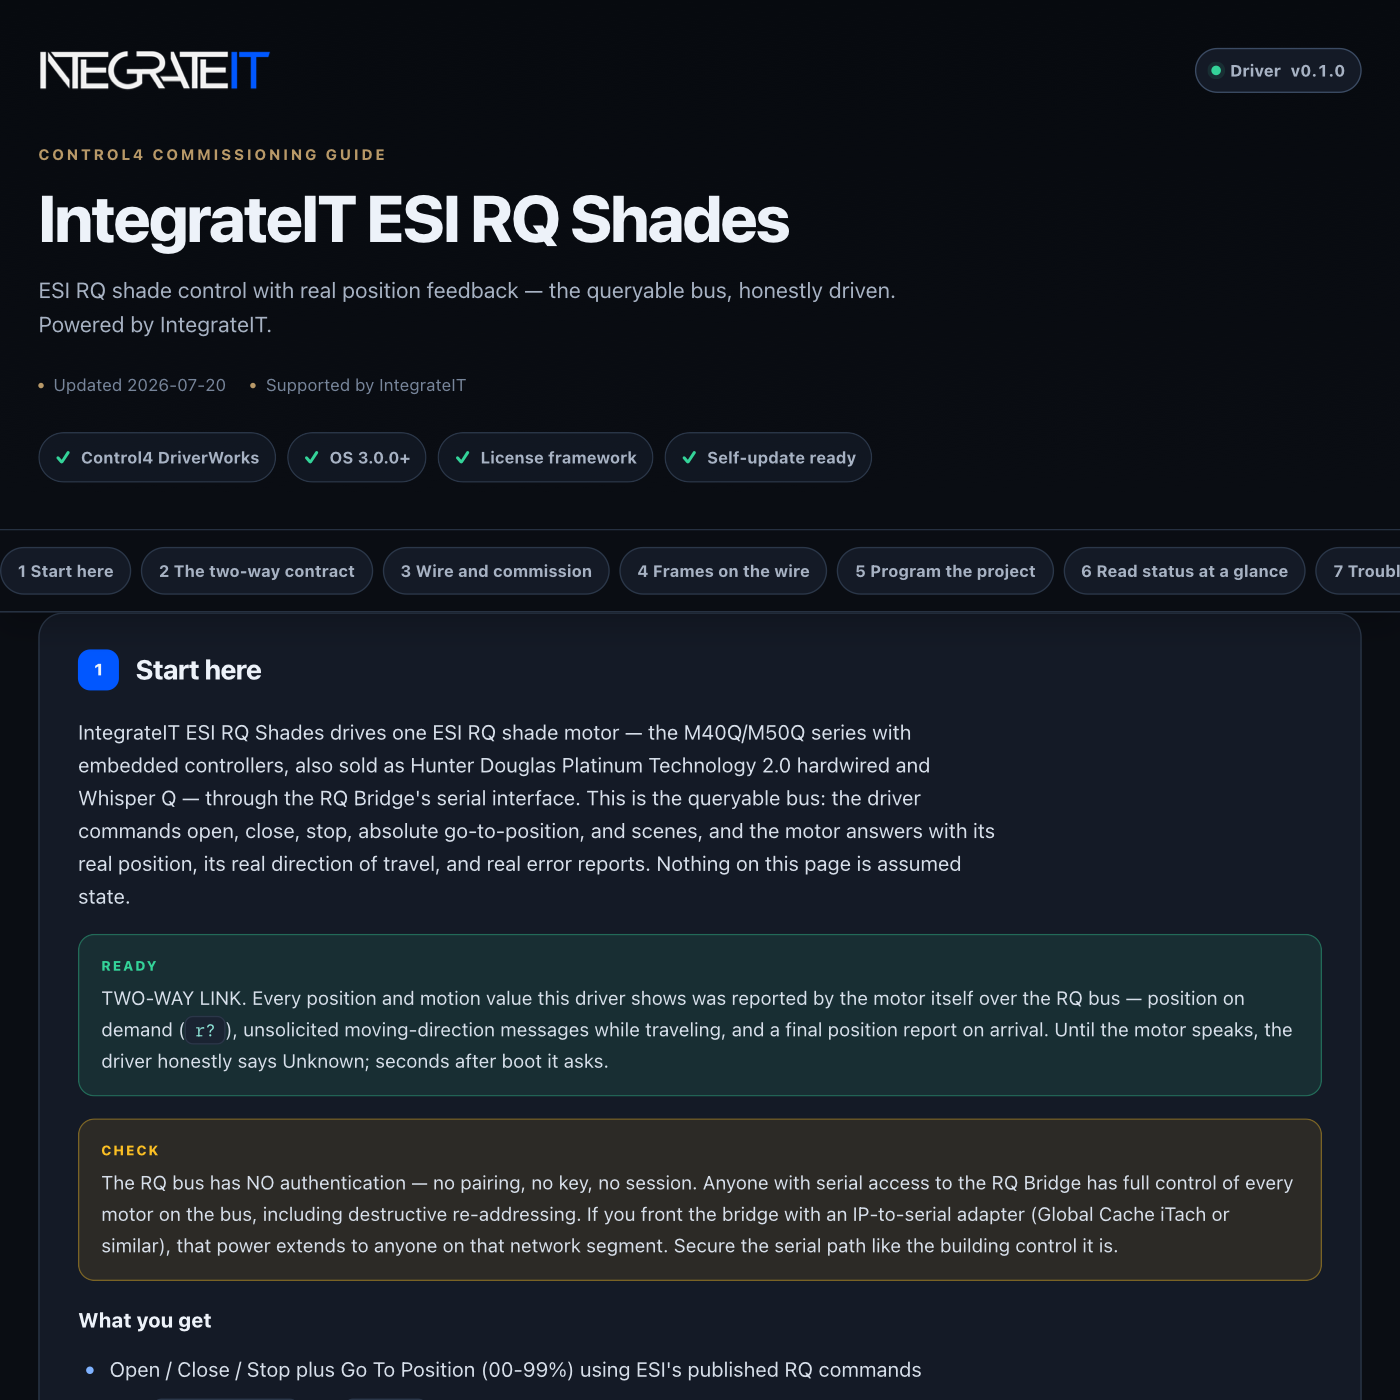
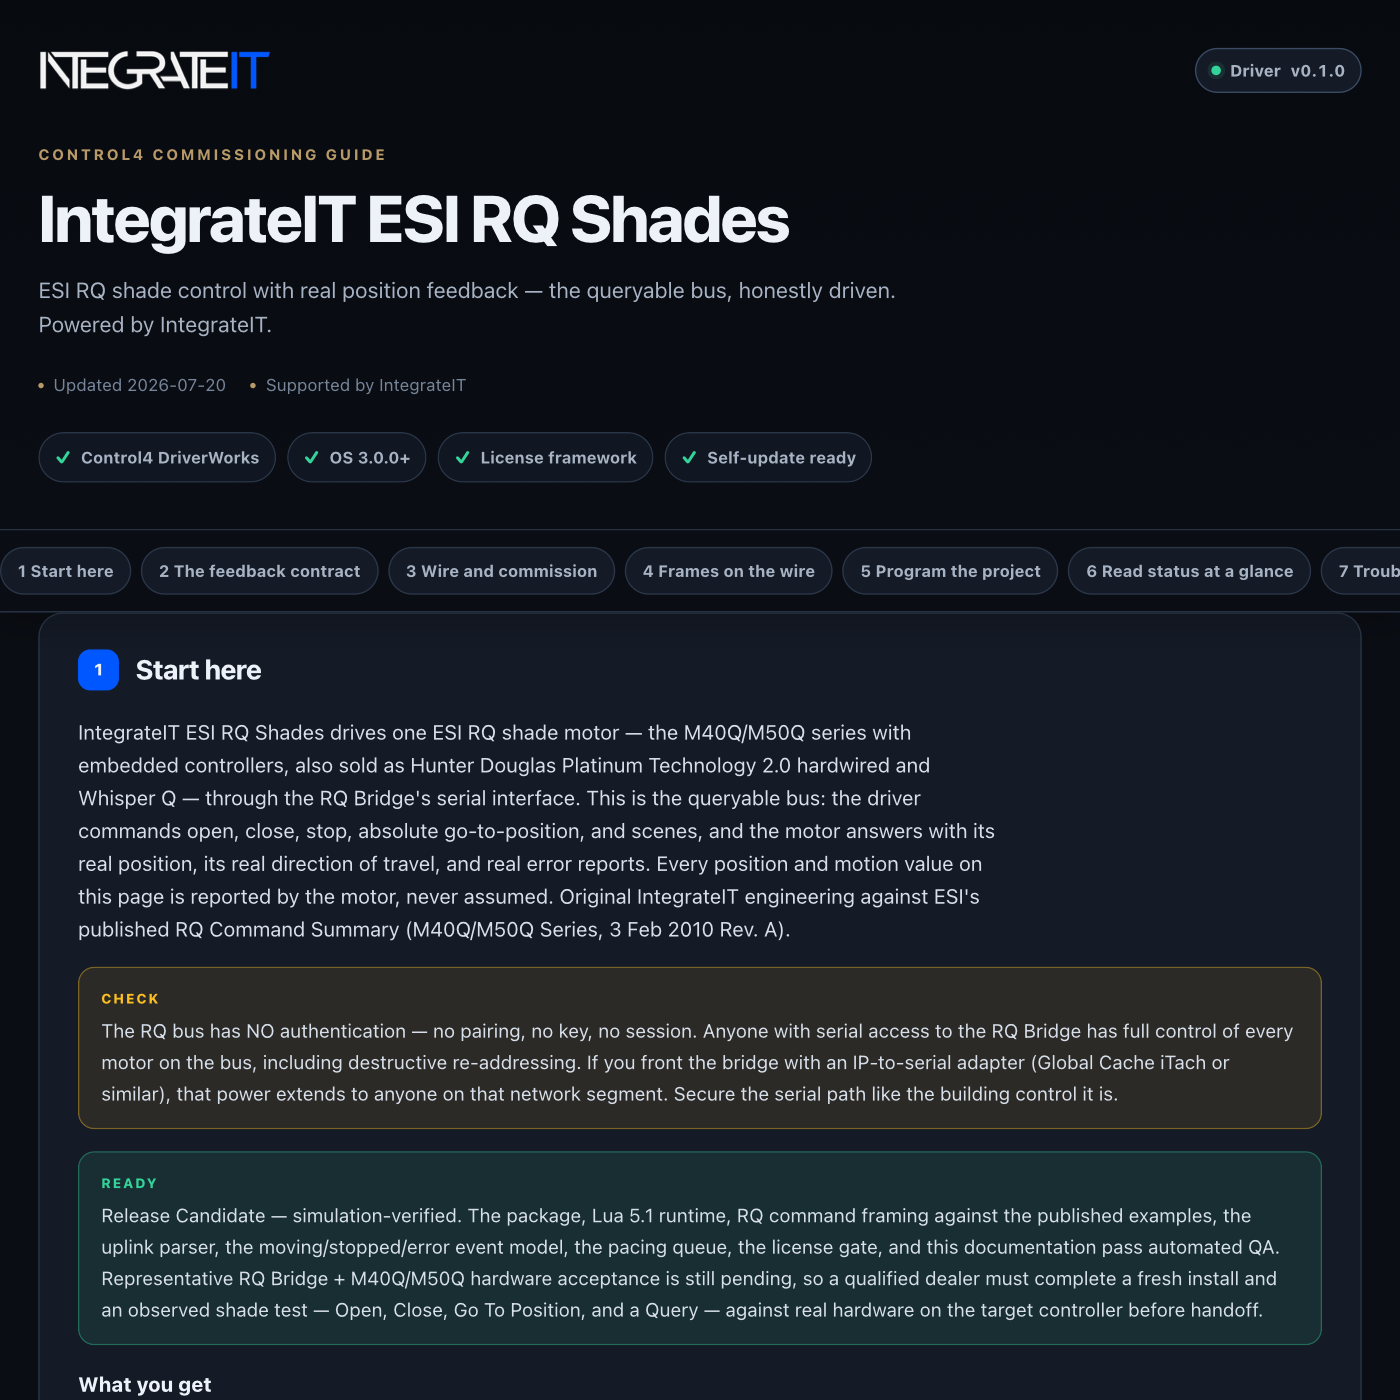
control4: publish driver channel (integrateit_esi_rq 0.1.1)

diff --git a/control4/integrateit_esi_rq/documentation.html b/control4/integrateit_esi_rq/documentation.html
@@ -179,13 +179,13 @@ td code{white-space:normal}
     <div class="wrap">
       <div class="brandbar">
[1 lines of base64/hex data omitted]
-        <span class="version"><span class="word">Driver</span> v0.1.0</span>
+        <span class="version"><span class="word">Driver</span> v0.1.1</span>
       </div>
       <p class="eyebrow">Control4 commissioning guide</p>
       <h1>IntegrateIT ESI RQ Shades</h1>
       <p class="sub">ESI RQ shade control with real position feedback — the queryable bus, honestly driven. Powered by IntegrateIT.</p>
       <div class="meta">
-        <span>Updated 2026-07-20</span>
+        <span>Updated 2026-07-26</span>
         <span>Supported by IntegrateIT</span>
       </div>
       <div class="readiness" aria-label="Driver capabilities">
@@ -198,18 +198,18 @@ td code{white-space:normal}
   </header>
 
   <div class="toc-wrap">
-    <nav class="toc wrap" aria-label="Documentation sections"><a href="#overview">1 Start here</a><a href="#feedback">2 The two-way contract</a><a href="#setup">3 Wire and commission</a><a href="#protocol">4 Frames on the wire</a><a href="#programming">5 Program the project</a><a href="#status">6 Read status at a glance</a><a href="#troubleshooting">7 Troubleshoot methodically</a><a href="#trust">8 Ownership, privacy, and licensing</a><a href="#reference">R Reference</a><a href="#licensing">L Licensing</a><a href="#updates">U Automatic updates</a><a href="#changelog">V Version history</a></nav>
+    <nav class="toc wrap" aria-label="Documentation sections"><a href="#overview">1 Start here</a><a href="#feedback">2 The feedback contract</a><a href="#setup">3 Wire and commission</a><a href="#protocol">4 Frames on the wire</a><a href="#programming">5 Program the project</a><a href="#status">6 Read status at a glance</a><a href="#troubleshooting">7 Troubleshoot methodically</a><a href="#trust">8 Ownership, privacy, and licensing</a><a href="#reference">R Reference</a><a href="#licensing">L Licensing</a><a href="#updates">U Automatic updates</a><a href="#changelog">V Version history</a></nav>
   </div>
 
   <main class="wrap">
     <section class="card" id="overview" data-card="overview">
   <h2><span class="n">1</span> Start here</h2>
-  <p>IntegrateIT ESI RQ Shades drives one ESI RQ shade motor — the M40Q/M50Q series with embedded controllers, also sold as Hunter Douglas Platinum Technology 2.0 hardwired and Whisper Q — through the RQ Bridge's serial interface. This is the queryable bus: the driver commands open, close, stop, absolute go-to-position, and scenes, and the motor answers with its real position, its real direction of travel, and real error reports. Nothing on this page is assumed state.</p>
-  <div class="note good">TWO-WAY LINK. Every position and motion value this driver shows was reported by the motor itself over the RQ bus — position on demand (<code>r?</code>), unsolicited moving-direction messages while traveling, and a final position report on arrival. Until the motor speaks, the driver honestly says Unknown; seconds after boot it asks.</div>
+  <p>IntegrateIT ESI RQ Shades drives one ESI RQ shade motor — the M40Q/M50Q series with embedded controllers, also sold as Hunter Douglas Platinum Technology 2.0 hardwired and Whisper Q — through the RQ Bridge's serial interface. This is the queryable bus: the driver commands open, close, stop, absolute go-to-position, and scenes, and the motor answers with its real position, its real direction of travel, and real error reports. Every position and motion value on this page is reported by the motor, never assumed. Original IntegrateIT engineering against ESI's published RQ Command Summary (M40Q/M50Q Series, 3 Feb 2010 Rev. A).</p>
   <div class="note warn">The RQ bus has NO authentication — no pairing, no key, no session. Anyone with serial access to the RQ Bridge has full control of every motor on the bus, including destructive re-addressing. If you front the bridge with an IP-to-serial adapter (Global Cache iTach or similar), that power extends to anyone on that network segment. Secure the serial path like the building control it is.</div>
+  <div class="note good">Release Candidate — simulation-verified. The package, Lua 5.1 runtime, RQ command framing against the published examples, the uplink parser, the moving/stopped/error event model, the pacing queue, the license gate, and this documentation pass automated QA. Representative RQ Bridge + M40Q/M50Q hardware acceptance is still pending, so a qualified dealer must complete a fresh install and an observed shade test — Open, Close, Go To Position, and a Query — against real hardware on the target controller before handoff.</div>
   <p><b>What you get</b></p>
   <ul>
-    <li>Open / Close / Stop plus Go To Position (00-99%) using ESI's published RQ commands</li>
+    <li>Open / Close / Stop plus Go To Position (00-99%) and Execute Scene using ESI's published RQ commands</li>
     <li>Live <code>Position (%)</code> and <code>Motion</code> driven only by real motor uplinks — never dead reckoning</li>
     <li><code>Movement Started</code> / <code>Movement Stopped</code> / <code>Position Changed</code> events straight from the motor's own messages</li>
     <li>Position query on demand, an automatic boot re-sync query, and an optional poll timer</li>
@@ -220,14 +220,15 @@ td code{white-space:normal}
 </section>
 
 <section class="card" id="feedback" data-card="feedback">
-  <h2><span class="n">2</span> The two-way contract</h2>
+  <h2><span class="n">2</span> The feedback contract</h2>
   <p>This driver's state model is the opposite of an RF one-way bridge, and the rules are simple:</p>
   <ul>
-    <li><code>Position (%)</code> and <code>Motion</code> update <b>only</b> from uplink messages addressed from this motor. Commands set neither — they ask the motor to move, and the motor's own reports move the properties.</li>
+    <li><code>Position (%)</code> and <code>Motion</code> update <b>only</b> from uplink messages addressed from this motor. Commands set neither — they ask the motor to move, and the motor's own reports move the properties. Anything claiming a position the motor never reported would be faking it.</li>
     <li>After a reboot everything restarts at <code>Unknown</code>, then the boot re-sync query (about 2 seconds in) asks the motor where it really is.</li>
     <li>A keypad or manual input moving the shade is <b>visible</b>: the motor sends the same unsolicited moving/arrival messages no matter who commanded it.</li>
     <li>If the motor reports <code>Enc</code> (limits not set), the driver voids its position display — a motor without limits genuinely does not know where it is.</li>
   </ul>
+  <div class="note good">TWO-WAY LINK. Every position and motion value this driver shows was reported by the motor itself over the RQ bus — position on demand (<code>r?</code>), unsolicited moving-direction messages while traveling, and a final position report on arrival. Until the motor speaks, the driver honestly says <code>Unknown</code>; about two seconds after boot it asks.</div>
   <p>Position semantics follow the wire: <code>00</code> = at the reference (factory default fully open), <code>99</code> = at the limit away from the reference (fully closed). Motors programmed with the CLOS parameter (reference is the close limit) report inverted relative to that default; the driver reports the wire truth and does not remap.</p>
 </section>
 
@@ -237,11 +238,11 @@ td code{white-space:normal}
     <li>Wire the RQ Bus: motors daisy-chained on 6-conductor cable, an ESI Bus Splitter for multi-motor runs, and the RQ Bridge on the bus. The bridge's serial side runs 9600 baud, 8 data bits, no parity, 1 stop bit, Xon/Xoff flow control.</li>
     <li>Connect a controller or IO-extender RS-232 port to the bridge (ESI DB9 adapter), or an IP-to-serial bridge if that is how the site is built.</li>
     <li>Add <b>IntegrateIT ESI RQ Shades</b> to the project and bind <b>RQ Bridge Serial Port</b> (binding 1) to that port in Connections.</li>
-    <li>Find the motor's address: run <b>Query All Positions</b> and watch <code>Last Uplink</code> (or the Lua output with Debug Mode on) — every motor reports as <code>!AAAr%%;</code>. Motors ship randomly addressed <code>C00</code>-<code>ZZZ</code>.</li>
+    <li>Find the motor's address: run <b>Query All Positions</b> and watch <code>Last Uplink</code> (or the Lua output with <code>Debug Mode → Print</code>) — every motor reports as <code>!AAAr%%;</code>. Motors ship randomly addressed <code>C00</code>-<code>ZZZ</code>.</li>
     <li>Set <b>Shade Address</b> to that 3-character address. The driver immediately queries the motor; <code>Position (%)</code> should land within a second.</li>
-    <li>Run <b>Open</b> / <b>Close</b> / <b>Go To Position</b> from the Actions tab and watch the position and motion properties track the real shade.</li>
-    <li>One driver instance per motor: add more instances for more shades.</li>
+    <li>Run <b>Open</b> / <b>Close</b> / <b>Go To Position</b> from the Actions tab and watch <code>Position (%)</code> and <code>Motion</code> track the real shade. That reaction is the proof the two-way link is live.</li>
   </ol>
+  <div class="note">One driver instance per motor — add more instances for more shades on the same bus.</div>
   <div class="note">ESI published the RQ protocol expressly for home-automation developers — the Command Summary names AMX, Crestron, and Vantage as intended consumers. This driver implements that published serial contract with original IntegrateIT engineering.</div>
 </section>
 
@@ -291,8 +292,13 @@ td code{white-space:normal}
     <tr><td><code>LAST_ERROR</code></td><td>STRING</td><td>Most recent decoded motor error or refused command</td></tr>
     <tr><td><code>COMMANDS_SENT</code></td><td>NUMBER</td><td>Serial writes since install (persists across reboots)</td></tr>
   </table>
-  <p>To move to a programmed position, set <b>Target Position (%)</b> then invoke <b>Go To Position</b>. React to <code>Movement Stopped</code> + <code>POSITION</code> for arrival logic — that pair is the motor's own word that it finished and where it landed.</p>
-  <p>Control commands are gated by the license: under Strict enforcement an unlicensed controller writes nothing to the serial port (including queries); the default Lenient mode allows commissioning while <code>License Status</code> carries the nag. Listening is never gated — feedback keeps flowing regardless.</p>
+  <p><code>Movement Started</code> and <code>Movement Stopped</code> each fire once per transition: the progress reports that stream in during travel do not re-fire the start, so an arrival hook runs exactly once. To move to a programmed position, set <b>Target Position (%)</b> then invoke <b>Go To Position</b>, and react to the <code>Movement Stopped</code> + <code>POSITION</code> pair for arrival logic — that pair is the motor's own word that it finished and where it landed.</p>
+  <ul>
+    <li>When <code>Movement Stopped</code> fires and <code>POSITION</code> reads <code>99</code> → announce "shades closed" or trigger a scene; the motor has confirmed it reached the closed limit.</li>
+    <li>When <code>Motor Error</code> fires → notify the installer with <code>LAST_ERROR</code>; a <code>limits are not set</code> reason means the motor needs commissioning before it can move or report.</li>
+    <li>Bind a keypad or a commissioning macro to <b>Query All Positions</b> → every motor on the bus answers, which is how you discover addresses without opening walls.</li>
+  </ul>
+  <p>Control commands are gated by the license: under Strict enforcement an unlicensed controller writes nothing to the serial port (including queries and the boot re-sync); the default Lenient mode allows commissioning while <code>License Status</code> carries the nag. Listening is never gated — feedback keeps flowing regardless.</p>
 </section>
 
 <section class="card" id="status" data-card="status">
@@ -313,24 +319,25 @@ td code{white-space:normal}
   <h2><span class="n">7</span> Troubleshoot methodically</h2>
   <table>
     <tr><th>Symptom</th><th>Likely cause</th><th>Resolution</th></tr>
+    <tr><td>Nothing responds, <code>Commands Sent</code> flat</td><td>Strict unlicensed, or an empty/invalid <code>Shade Address</code></td><td>Read <code>License Status</code> and <code>Last Error</code>; set a valid 3-character address</td></tr>
     <tr><td><code>Position (%)</code> stuck at <code>Unknown</code>, commands count up</td><td>Uplink not reaching the driver</td><td>Check both serial directions; verify with Query Position and watch <code>Last Uplink</code></td></tr>
     <tr><td><code>Motor Error</code> with limits-not-set</td><td>The motor's limits were never programmed</td><td>Set the limits per ESI's instructions; until then the motor refuses moves and cannot report position</td></tr>
     <tr><td><code>Motor Error</code> busy on rapid sequences</td><td>Commands arriving while the motor executes</td><td>Raise <code>Command Spacing (ms)</code>, or wait for <code>Movement Stopped</code> before the next move</td></tr>
     <tr><td>Message-lost errors on a long bus</td><td>Bus wiring or splitter issues</td><td>Inspect the 6-conductor chain and Bus Splitter connections</td></tr>
     <tr><td>Another shade moves</td><td>Wrong <code>Shade Address</code></td><td>Run Query All Positions and re-identify; addresses are per-motor</td></tr>
     <tr><td>Position looks inverted (00 when closed)</td><td>Motor programmed with the CLOS parameter</td><td>Expected — the driver reports the wire truth; account for it in programming</td></tr>
-    <tr><td>Nothing at all, <code>Commands Sent</code> flat</td><td>Strict unlicensed or invalid address</td><td>Read <code>License Status</code> and <code>Last Error</code></td></tr>
   </table>
+  <div class="note">Still no motion or no uplink after these checks — turn on <code>Debug Mode → Print</code>, run <b>Print Configuration</b> and <b>Query All Positions</b>, capture the Lua output, and send it with the RQ Bridge model and the wiring topology to support@integrateit.tech · (913) 804-7575.</div>
 </section>
 
 <section class="card" id="trust" data-card="trust">
   <h2><span class="n">8</span> Ownership, privacy, and licensing</h2>
-  <p>This package is an original IntegrateIT implementation of the RQ serial protocol as published by Electronic Solutions, Inc. (a Hunter Douglas company) in its RQ Command Summary — a document ESI wrote expressly so automation developers could integrate RQ devices. It does not bundle another vendor's runtime, source code, brand assets, trial system, or license. Driver engineering, Control4 integration, documentation, QA, licensing, updates, and support are provided by IntegrateIT.</p>
-  <p>The driver sends shade commands to your RQ Bridge and nothing anywhere else. The shared IntegrateIT license and update services use the controller identity, driver slug, version, configured license key, and update channel as documented in the reference below.</p>
-  <p>Lenient mode allows commissioning without an activated key and keeps <code>License Status</code> visible. Strict mode blocks all serial control until the Ops Portal has minted and validated a key for that controller. Installing this package does not itself mint or activate a controller license.</p>
+  <p>This package is an original IntegrateIT implementation of the RQ serial protocol as published by Electronic Solutions, Inc. (a Hunter Douglas company) in its RQ Command Summary — a document ESI wrote expressly so automation developers could integrate RQ devices. It does not bundle another vendor's runtime, source code, brand assets, trial system, or license. ESI, RQ, Hunter Douglas, Platinum Technology, and Whisper Q are trademarks of their respective owners; IntegrateIT is not affiliated with them, and this driver is not their product. Driver engineering, Control4 integration, documentation, QA, licensing, updates, and support are provided by IntegrateIT.</p>
+  <p>The driver sends shade commands to your RQ Bridge and nothing anywhere else. The RQ protocol itself has no login, password, or encryption — physical access to the serial port is the entire security model, which is why that port belongs inside your rack. The shared IntegrateIT license and update services use the controller identity, driver slug, version, configured license key, and update channel as documented in the reference below.</p>
+  <p>Lenient mode allows commissioning without an activated key and keeps <code>License Status</code> visible. Strict mode blocks all serial control until the Ops Portal has minted and validated a key for that controller; listening continues either way. Installing this package does not itself mint or activate a controller license.</p>
 <section class="card" id="reference" data-card="reference">
   <h2><span class="n">R</span> Reference</h2>
-  <p>Generated from the driver manifest at build time — always matches this build (v0.1.0).</p>
+  <p>Generated from the driver manifest at build time — always matches this build (v0.1.1).</p>
   <h3>Properties</h3>
   <table>
     <tr><th>Property</th><th>Type</th><th>Default</th><th>Description</th></tr>
@@ -446,7 +453,9 @@ td code{white-space:normal}
     <section class="card" id="changelog" data-card="changelog">
   <h2><span class="n">V</span> Version history</h2>
   <div class="chg">
-    <div class="rel"><b>v0.1.0</b> <span class="pill green">current</span><span class="d">2026-07-20</span>
+    <div class="rel"><b>v0.1.1</b> <span class="pill green">current</span><span class="d">2026-07-26</span>
+      <ul><li>Documentation rebuilt to the IntegrateIT commissioning-guide standard: uniform sections, honest contracts, verified claim-by-claim against the code.</li></ul></div>
+    <div class="rel"><b>v0.1.0</b><span class="d">2026-07-20</span>
       <ul><li>Initial release: two-way ESI RQ (M40Q/M50Q / Platinum 2.0 hardwired / Whisper Q) shade driver against ESI's published RQ Command Summary (3 Feb 2010 Rev. A).</li><li>Open / Close / Stop / Go To Position (00-99%) / Execute Scene downlink commands.</li><li>Real feedback: r/&lt;/&gt; uplink parsing into Position (%) + Motion, Movement Started/Stopped + Position Changed events, and decoded E error uplinks (busy / limits-not-set / message-lost).</li><li>Position query on demand, boot re-sync query, optional poll timer, and the !000r?; global bus query for address discovery.</li><li>Paced transmit queue, strict-license zero-byte guarantee (listening never gated), bounded chunk-safe RX assembly with Xon/Xoff stripping.</li></ul></div>
   </div>
 </section>

diff --git a/control4/integrateit_esi_rq/CHANGELOG.md b/control4/integrateit_esi_rq/CHANGELOG.md
@@ -1,5 +1,8 @@
 # Changelog — IntegrateIT ESI RQ Shades
 
+## [0.1.1] - 2026-07-26
+- Documentation rebuilt to the IntegrateIT commissioning-guide standard: uniform sections, honest contracts, verified claim-by-claim against the code.
+
 ## [0.1.0] - 2026-07-20
 - Initial release: two-way ESI RQ (M40Q/M50Q / Platinum 2.0 hardwired / Whisper Q) shade driver
   against ESI's published RQ Command Summary (3 Feb 2010 Rev. A).
